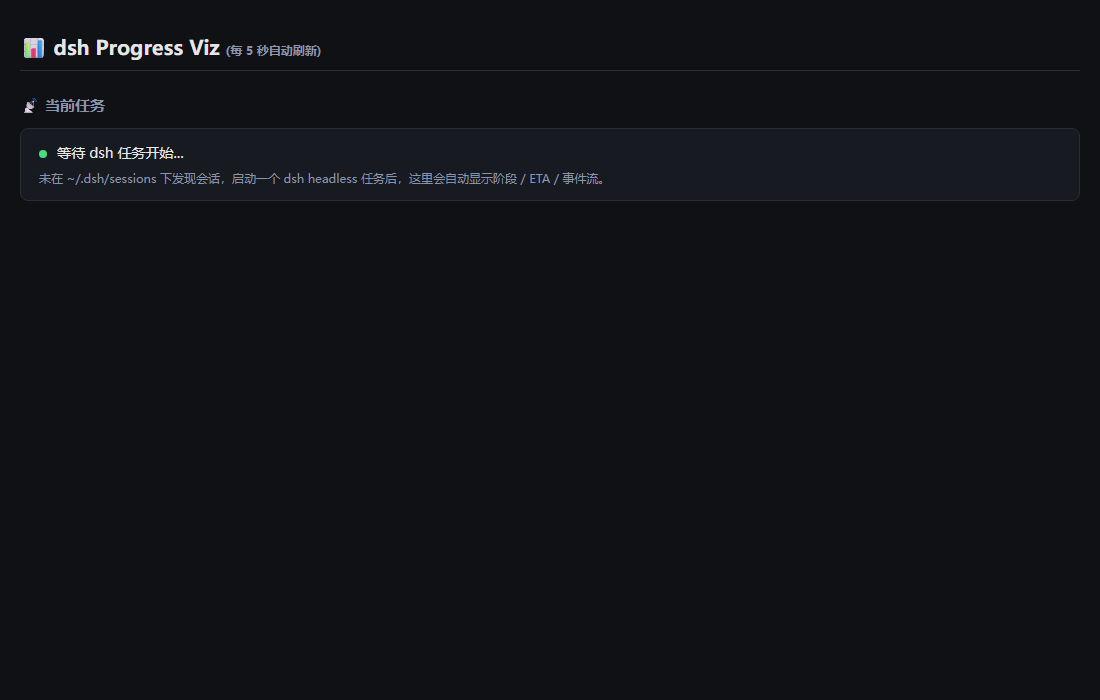
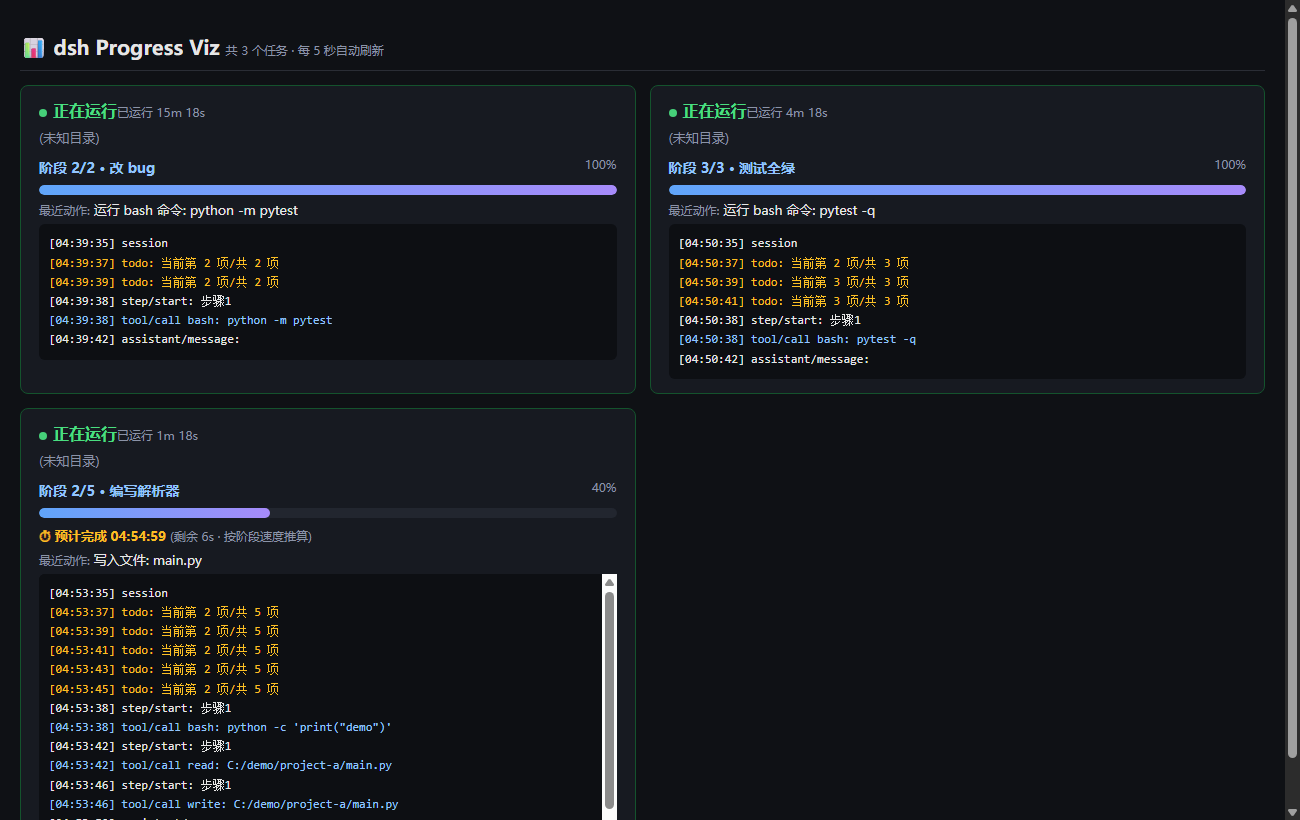
feat: .gitignore + 端口冲突自动递增 + 启动自动打开浏览器（--no-open）；README 截图更新为多任务分栏

diff --git a/tests/test_port.py b/tests/test_port.py
@@ -1,0 +1,127 @@
+# -*- coding: utf-8 -*-
+"""dsh-progress-viz 端口冲突自动递增单测（纯本地，不烧 token；随机高位端口，不占常用端口）
+
+运行方式：python tests\test_port.py（无需 pytest），exit 0 全过。
+
+覆盖（按 spec）：
+  ① 端口被占用 → 自动 +1 递增，选到下一个空闲端口（并打印「端口 X 被占用，改用 Y」）
+  ② 连续 5 个端口全被占用 → 报错退出（SystemExit）
+  ③ 起始端口本就空闲 → 原样返回（不递增、无提示）
+  ④ argparse 向后兼容：python dashboard.py 8123 / --no-open / 默认 8123
+"""
+import contextlib
+import io
+import os
+import random
+import socket
+import sys
+
+HERE = os.path.dirname(os.path.abspath(__file__))
+PKG = os.path.dirname(HERE)  # publish\dsh-progress-viz
+sys.path.insert(0, PKG)      # 使 dashboard.py 可导入
+import dashboard as db
+
+fails = 0
+
+
+def check(name, cond, detail=""):
+    global fails
+    if cond:
+        print(f"  PASS {name}")
+    else:
+        fails += 1
+        print(f"  FAIL {name} {detail}")
+
+
+def bind_port(port):
+    """绑定 127.0.0.1:port 并保持占用（返回 socket，调用方负责 close）。"""
+    s = socket.socket(socket.AF_INET, socket.SOCK_STREAM)
+    s.setsockopt(socket.SOL_SOCKET, socket.SO_REUSEADDR, 1)
+    s.bind(("127.0.0.1", port))
+    s.listen(1)
+    return s
+
+
+def free_range(n):
+    """找一个随机高位起始端口 P，且 P..P+n-1 全部空闲（避免踩到真实服务）。"""
+    while True:
+        p = random.randint(20000, 50000)
+        socks = []
+        try:
+            for i in range(n):
+                socks.append(bind_port(p + i))
+        except OSError:
+            for s in socks:
+                s.close()
+            continue
+        for s in socks:
+            s.close()
+        return p
+
+
+print("== 端口被占用 → 自动 +1 递增 ==")
+def t1():
+    p = free_range(2)   # P 与 P+1 当前都空闲
+    s = bind_port(p)    # 占住 P
+    try:
+        buf = io.StringIO()
+        with contextlib.redirect_stdout(buf):
+            got = db.pick_free_port(p)
+        check("占住 P 后选到下一个空闲端口 P+1", got == p + 1, f"got={got}")
+        msg = buf.getvalue()
+        check("打印「端口 X 被占用，改用 Y」",
+              f"端口 {p} 被占用，改用 {p + 1}" in msg, repr(msg))
+    finally:
+        s.close()
+t1()
+
+print("== 连续 5 个端口全占用 → 报错退出 ==")
+def t2():
+    p = free_range(5)   # P..P+4 当前都空闲
+    socks = [bind_port(p + i) for i in range(5)]
+    try:
+        raised = None
+        try:
+            db.pick_free_port(p, tries=5)
+        except SystemExit as e:
+            raised = e
+        check("5 个端口全占用 → SystemExit 报错退出",
+              raised is not None, f"raised={raised}")
+        if raised is not None:
+            check("报错信息含被占用端口范围", str(p) in str(raised),
+                  repr(str(raised)))
+    finally:
+        for s in socks:
+            s.close()
+t2()
+
+print("== 起始端口空闲 → 原样返回（不递增、无提示）==")
+def t3():
+    p = free_range(1)
+    buf = io.StringIO()
+    with contextlib.redirect_stdout(buf):
+        got = db.pick_free_port(p)
+    check("空闲端口原样返回", got == p, f"got={got}")
+    check("无「被占用」提示", "被占用" not in buf.getvalue(), repr(buf.getvalue()))
+t3()
+
+print("== argparse 向后兼容 ==")
+def t4():
+    old = list(sys.argv)
+    try:
+        sys.argv = ["dashboard.py", "8123"]
+        a = db.build_parser().parse_args()
+        check("python dashboard.py 8123 → port=8123 且不 no_open",
+              a.port == 8123 and not a.no_open, str(a))
+        sys.argv = ["dashboard.py", "8124", "--no-open"]
+        a = db.build_parser().parse_args()
+        check("--no-open → no_open=True", a.port == 8124 and a.no_open, str(a))
+        sys.argv = ["dashboard.py"]
+        a = db.build_parser().parse_args()
+        check("无参数 → 默认 8123", a.port == 8123 and not a.no_open, str(a))
+    finally:
+        sys.argv = old
+t4()
+
+print(f"\n{'=' * 40}\n结果: {'全部通过 ✅' if fails == 0 else f'{fails} 项失败 ❌'}")
+sys.exit(1 if fails else 0)

diff --git a/README.md b/README.md
@@ -45,6 +45,15 @@ pip install zstandard>=0.21
 python dashboard.py 8123
 ```
 
+启动行为：
+
+- **自动打开浏览器**：服务器启动成功后自动用系统默认浏览器打开
+  <http://127.0.0.1:<实际端口>>；
+- **端口冲突自动递增**：指定端口（或默认 8123）被占用时自动 +1 重试
+  （最多 5 次），并打印「端口 X 被占用，改用 Y」；连续 5 个端口都被占用才报错退出；
+- **`--no-open`**：启动时不自动打开浏览器（如远程/无头环境）：
+  `python dashboard.py 8123 --no-open`。
+
 浏览器打开 <http://127.0.0.1:8123>：
 
 - **多任务分栏**：看板扫描 `~/.dsh/sessions` 下**全部**会话，只保留**最近 1 小时**内有写入
@@ -91,6 +100,7 @@ python tests/test_session_progress.py  # 跑全部单测（无需 pytest），ex
 python tests/test_eta_blend.py         # ETA 融合算法单测（历史会话 fixture 生成到临时目录）
 python tests/test_multi_pane.py        # 多任务分栏单测（1 小时窗口 / mtime 排序 / status 判定）
 python tests/test_tail_format.py       # tail 可读性单测（chunk 合并 / 时间戳 / 动作高亮 / 截断）
+python tests/test_port.py              # 端口冲突自动递增单测（socket 占用模拟，随机高位端口）
 ```
 
 GitHub Actions CI（`.github/workflows/ci.yml`）在 push 到 main 与 pull_request 时，
@@ -110,6 +120,7 @@ dsh-progress-viz/
 │   ├── test_eta_blend.py             # ETA 融合算法单测
 │   ├── test_multi_pane.py            # 多任务分栏单测
 │   ├── test_tail_format.py           # tail 可读性单测
+│   ├── test_port.py                  # 端口冲突自动递增单测
 │   └── fixtures/session-synthetic.jsonl.zstd
 ├── README.md
 ├── LICENSE
